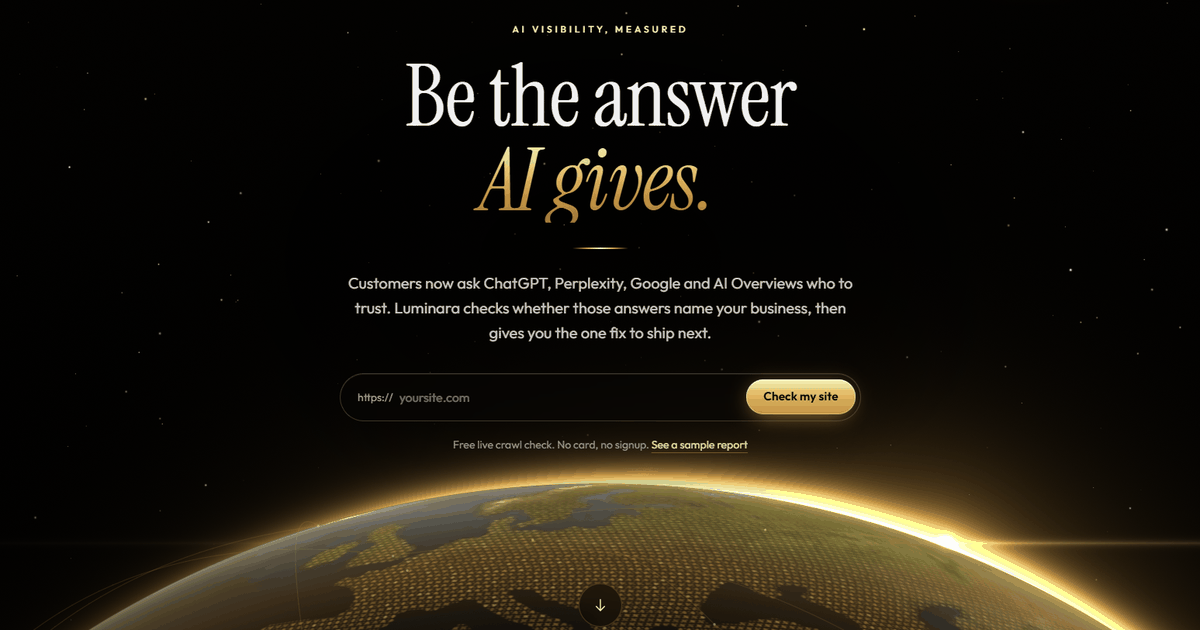
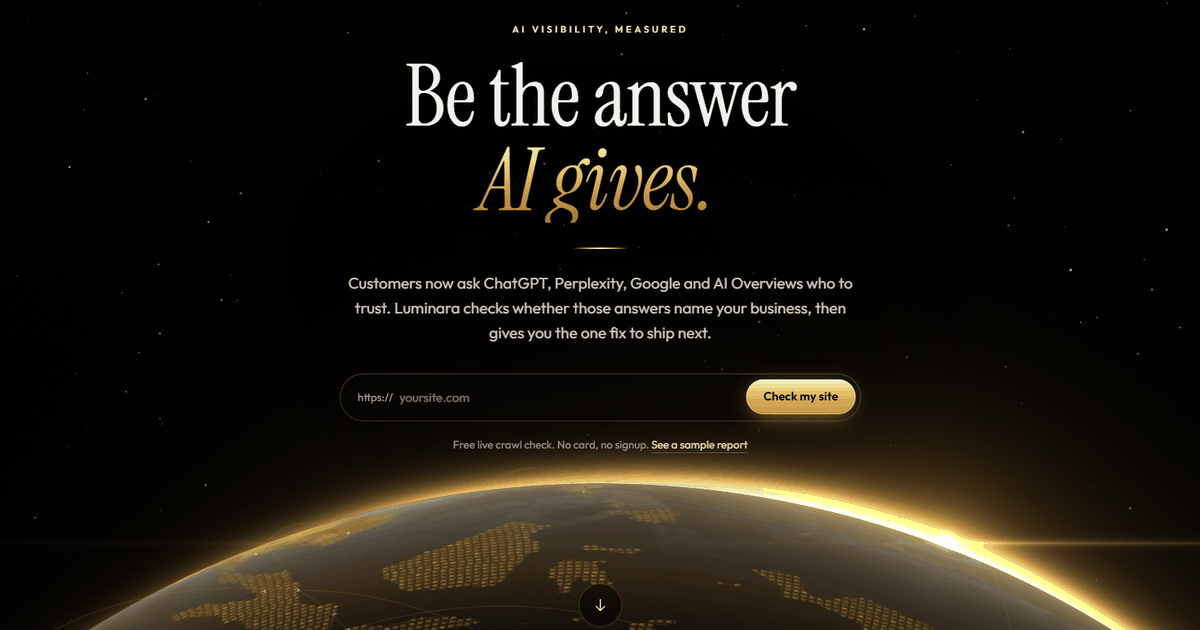
feat(landing): put the globe's home in Melbourne, facing Oceania and SEA
Luminara is a Melbourne business, so the illustrative "Your business"
marker moves from London to Melbourne. Audience cities become Oceania and
Southeast Asia (Sydney, Brisbane, Adelaide, Perth, Auckland, Singapore,
Jakarta, Kuala Lumpur, Bangkok, Manila, Ho Chi Minh City, Hong Kong); the
fix chapter lights Singapore to Melbourne. The ambient network links
Oceania, SEA and East Asia with a few long-haul routes. The hero horizon
now opens over Southeast Asia and northern Australia, the statement centres
on Australia, the first frame snaps to its pose, and the free spin is a
little slower. og-image.png re-rendered from the new hero (266 KB).

Changed region(s): [[0.1542, 0.754, 0.925, 1.0]]

diff --git a/components/marketing/earth/globeStory.ts b/components/marketing/earth/globeStory.ts
@@ -30,7 +30,7 @@ export const STORY_CHAPTERS: readonly StoryChapter[] = [
     stage: 'Site crawl',
     title: 'Read your site the way AI does.',
     body: 'Luminara checks whether search crawlers and AI bots can reach your pages, and whether robots.txt, llms.txt and your schema tell them who you are.',
-    focus: { lat: 36, lon: 8 },
+    focus: { lat: -30, lon: 140 },
   },
   {
     id: 'ask',
@@ -38,7 +38,7 @@ export const STORY_CHAPTERS: readonly StoryChapter[] = [
     stage: 'Four-engine check',
     title: 'Ask the engines your buyers ask.',
     body: 'Buyer questions in your category are checked across Google Search, AI Overviews, ChatGPT and Perplexity. You see who gets named, whether it is you, and how each answer was measured.',
-    focus: { lat: 22, lon: -34 },
+    focus: { lat: -14, lon: 126 },
   },
   {
     id: 'prove',
@@ -46,7 +46,7 @@ export const STORY_CHAPTERS: readonly StoryChapter[] = [
     stage: 'Evidence labels',
     title: 'Know what is proven, and what is not.',
     body: 'Every result carries a label. No blended visibility score, no guesswork dressed up as data.',
-    focus: { lat: 22, lon: 26 },
+    focus: { lat: -6, lon: 118 },
   },
   {
     id: 'fix',
@@ -54,7 +54,7 @@ export const STORY_CHAPTERS: readonly StoryChapter[] = [
     stage: 'Next fix',
     title: 'Ship one fix, then check again.',
     body: 'You get the single change most likely to help, with copy and schema ready to paste. Publish it, re-check in one click, and see what moved.',
-    focus: { lat: 44, lon: -18 },
+    focus: { lat: -24, lon: 132 },
   },
 ];
 
@@ -69,71 +69,86 @@ export const ENGINES = ['Google Search', 'AI Overviews', 'ChatGPT', 'Perplexity'
 
 export const GLOBE_NOTICE = 'Illustrative globe. Your results come from a live audit.';
 
-/** The example business the story arcs point at. Illustrative, not a customer. */
-export const EXAMPLE_BUSINESS: GlobePlace = { id: 'business', lat: 51.51, lon: -0.13 };
+/**
+ * The example business the story arcs point at: Melbourne, where Luminara is based.
+ * Illustrative, not a customer.
+ */
+export const EXAMPLE_BUSINESS: GlobePlace = { id: 'business', lat: -37.81, lon: 144.96 };
 
-/** Example audience locations for the story chapters, with an illustrative evidence state each. */
+/**
+ * Example audience locations for the story chapters, with an illustrative evidence state each.
+ * Oceania and Southeast Asia first: the markets closest to a Melbourne business.
+ */
 export const AUDIENCE_PLACES: ReadonlyArray<GlobePlace & { state: EvidenceState }> = [
-  { id: 'new-york', lat: 40.71, lon: -74.0, state: 'Measured' },
-  { id: 'toronto', lat: 43.65, lon: -79.38, state: 'Not measured' },
-  { id: 'sao-paulo', lat: -23.55, lon: -46.63, state: 'Estimated' },
-  { id: 'lagos', lat: 6.52, lon: 3.38, state: 'Measured' },
-  { id: 'cairo', lat: 30.04, lon: 31.24, state: 'Estimated' },
-  { id: 'nairobi', lat: -1.29, lon: 36.82, state: 'Not measured' },
-  { id: 'dubai', lat: 25.2, lon: 55.27, state: 'Measured' },
-  { id: 'istanbul', lat: 41.01, lon: 28.98, state: 'Estimated' },
-  { id: 'madrid', lat: 40.42, lon: -3.7, state: 'Measured' },
-  { id: 'stockholm', lat: 59.33, lon: 18.07, state: 'Not measured' },
-  { id: 'mumbai', lat: 19.08, lon: 72.88, state: 'Estimated' },
-  { id: 'johannesburg', lat: -26.2, lon: 28.05, state: 'Measured' },
+  { id: 'sydney', lat: -33.87, lon: 151.21, state: 'Measured' },
+  { id: 'brisbane', lat: -27.47, lon: 153.03, state: 'Estimated' },
+  { id: 'adelaide', lat: -34.93, lon: 138.6, state: 'Not measured' },
+  { id: 'perth', lat: -31.95, lon: 115.86, state: 'Measured' },
+  { id: 'auckland', lat: -36.85, lon: 174.76, state: 'Estimated' },
+  { id: 'singapore', lat: 1.35, lon: 103.82, state: 'Measured' },
+  { id: 'jakarta', lat: -6.21, lon: 106.85, state: 'Not measured' },
+  { id: 'kuala-lumpur', lat: 3.14, lon: 101.69, state: 'Estimated' },
+  { id: 'bangkok', lat: 13.76, lon: 100.5, state: 'Measured' },
+  { id: 'manila', lat: 14.6, lon: 120.98, state: 'Not measured' },
+  { id: 'ho-chi-minh-city', lat: 10.82, lon: 106.63, state: 'Estimated' },
+  { id: 'hong-kong', lat: 22.32, lon: 114.17, state: 'Measured' },
 ];
 
 /** The one arc the "fix" chapter lights up. */
-export const FIX_PLACE_ID = 'new-york';
+export const FIX_PLACE_ID = 'singapore';
 
-/** Ambient network for the hero and the statement: illustrative links between world cities. */
+/**
+ * Ambient network for the hero and the statement: illustrative links across Oceania,
+ * Southeast and East Asia, with a few long-haul routes out to the wider world.
+ */
 export const NETWORK_PLACES: readonly GlobePlace[] = [
-  { id: 'london', lat: 51.51, lon: -0.13 },
-  { id: 'paris', lat: 48.86, lon: 2.35 },
-  { id: 'berlin', lat: 52.52, lon: 13.4 },
-  { id: 'moscow', lat: 55.76, lon: 37.62 },
-  { id: 'istanbul', lat: 41.01, lon: 28.98 },
-  { id: 'dubai', lat: 25.2, lon: 55.27 },
-  { id: 'delhi', lat: 28.61, lon: 77.21 },
-  { id: 'beijing', lat: 39.9, lon: 116.4 },
+  { id: 'melbourne', lat: -37.81, lon: 144.96 },
+  { id: 'sydney', lat: -33.87, lon: 151.21 },
+  { id: 'brisbane', lat: -27.47, lon: 153.03 },
+  { id: 'perth', lat: -31.95, lon: 115.86 },
+  { id: 'darwin', lat: -12.46, lon: 130.84 },
+  { id: 'auckland', lat: -36.85, lon: 174.76 },
+  { id: 'suva', lat: -18.14, lon: 178.44 },
+  { id: 'port-moresby', lat: -9.44, lon: 147.18 },
+  { id: 'singapore', lat: 1.35, lon: 103.82 },
+  { id: 'jakarta', lat: -6.21, lon: 106.85 },
+  { id: 'kuala-lumpur', lat: 3.14, lon: 101.69 },
+  { id: 'bangkok', lat: 13.76, lon: 100.5 },
+  { id: 'ho-chi-minh-city', lat: 10.82, lon: 106.63 },
+  { id: 'manila', lat: 14.6, lon: 120.98 },
+  { id: 'hong-kong', lat: 22.32, lon: 114.17 },
+  { id: 'taipei', lat: 25.03, lon: 121.57 },
+  { id: 'shanghai', lat: 31.23, lon: 121.47 },
   { id: 'seoul', lat: 37.57, lon: 126.98 },
   { id: 'tokyo', lat: 35.68, lon: 139.69 },
-  { id: 'new-york', lat: 40.71, lon: -74.0 },
-  { id: 'chicago', lat: 41.88, lon: -87.63 },
-  { id: 'san-francisco', lat: 37.77, lon: -122.42 },
-  { id: 'mexico-city', lat: 19.43, lon: -99.13 },
-  { id: 'reykjavik', lat: 64.15, lon: -21.94 },
-  { id: 'madrid', lat: 40.42, lon: -3.7 },
-  { id: 'cairo', lat: 30.04, lon: 31.24 },
-  { id: 'almaty', lat: 43.24, lon: 76.89 },
-  { id: 'anchorage', lat: 61.22, lon: -149.9 },
-  { id: 'vancouver', lat: 49.28, lon: -123.12 },
+  { id: 'mumbai', lat: 19.08, lon: 72.88 },
+  { id: 'dubai', lat: 25.2, lon: 55.27 },
+  { id: 'los-angeles', lat: 34.05, lon: -118.24 },
 ];
 
 export const NETWORK_LINKS: ReadonlyArray<readonly [string, string]> = [
-  ['london', 'new-york'],
-  ['london', 'dubai'],
-  ['paris', 'moscow'],
-  ['berlin', 'istanbul'],
-  ['madrid', 'reykjavik'],
-  ['dubai', 'delhi'],
-  ['delhi', 'beijing'],
-  ['moscow', 'almaty'],
-  ['beijing', 'seoul'],
-  ['seoul', 'tokyo'],
-  ['tokyo', 'anchorage'],
-  ['anchorage', 'vancouver'],
-  ['vancouver', 'chicago'],
-  ['san-francisco', 'new-york'],
-  ['chicago', 'mexico-city'],
-  ['new-york', 'reykjavik'],
-  ['cairo', 'istanbul'],
-  ['almaty', 'delhi'],
+  ['melbourne', 'sydney'],
+  ['melbourne', 'perth'],
+  ['melbourne', 'singapore'],
+  ['sydney', 'auckland'],
+  ['sydney', 'tokyo'],
+  ['sydney', 'los-angeles'],
+  ['brisbane', 'port-moresby'],
+  ['auckland', 'suva'],
+  ['perth', 'singapore'],
+  ['darwin', 'jakarta'],
+  ['singapore', 'kuala-lumpur'],
+  ['singapore', 'bangkok'],
+  ['singapore', 'mumbai'],
+  ['bangkok', 'ho-chi-minh-city'],
+  ['ho-chi-minh-city', 'manila'],
+  ['manila', 'hong-kong'],
+  ['hong-kong', 'taipei'],
+  ['taipei', 'tokyo'],
+  ['tokyo', 'seoul'],
+  ['seoul', 'shanghai'],
+  ['shanghai', 'hong-kong'],
+  ['mumbai', 'dubai'],
 ];
 
 /** Literal RGB triplets mirroring tokens.css gold scale (canvas needs literal colors). */

diff --git a/components/marketing/earth/globeRenderer.ts b/components/marketing/earth/globeRenderer.ts
@@ -69,7 +69,9 @@ export interface GlobeRenderer {
 }
 
 const DAYMAP_URL = '/brand/earth-daymap.webp';
-const SPIN_DEG_PER_S = 2.4;
+const SPIN_DEG_PER_S = 1.6;
+/** Free spin starts over the Asia-Pacific. */
+const START_LON = 122;
 const DOT_SPACING_CSS = 8.5;
 
 const VERT = `
@@ -391,8 +393,8 @@ export function createGlobeRenderer(
   // Damped view state.
   const state = {
     pose: null as GlobePose | null,
-    lat: 10,
-    lon: 20,
+    lat: 0,
+    lon: START_LON,
     layers: { network: 0, story: 0, marker: 0, proof: 0, fix: 0, scan: 0 } as GlobeLayers,
   };
 
@@ -670,6 +672,9 @@ export function createGlobeRenderer(
     const tp = target.pose;
     if (!state.pose) {
       state.pose = { ...tp, sun: [...tp.sun] as Vec3 };
+      // First frame: no visible swing from the initial orientation.
+      state.lat = target.lat;
+      if (target.lon !== null) state.lon = target.lon;
     } else {
       const sp = state.pose;
       sp.cx += (tp.cx - sp.cx) * kFast;

diff --git a/components/marketing/SpaceStage.tsx b/components/marketing/SpaceStage.tsx
@@ -27,6 +27,13 @@ interface SpaceStageProps {
   onChapterChange: (index: number) => void;
 }
 
+/**
+ * Hero camera: facing far south, so the horizon shows Southeast Asia and northern Australia.
+ * The statement then centres on Australia. Luminara is a Melbourne business.
+ */
+const HERO_LAT = -68;
+const STATEMENT_LAT = -20;
+
 /** What the globe shows for each chapter (the ambient network is hero-only). */
 const CHAPTER_LAYERS: Record<StoryChapter['id'], Omit<GlobeLayers, 'network'>> = {
   scan: { story: 0, marker: 1, proof: 0, fix: 0, scan: 1 },
@@ -67,7 +74,7 @@ export function targetForProgress(
     const toCenter = clamp(s, 0, 1);
     return {
       pose,
-      lat: lerp(-18, 12, easeInOut(toCenter)),
+      lat: lerp(HERO_LAT, STATEMENT_LAT, easeInOut(toCenter)),
       lon: null,
       layers: {
         network: lerp(0.6, 0.8, toCenter) * (1 - smoothstep(1.15, 1.5, s)),
